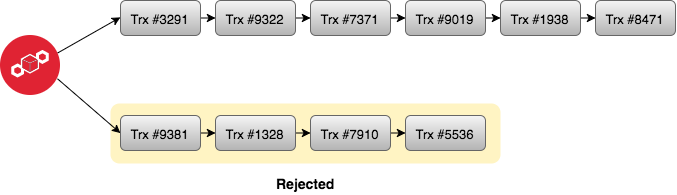
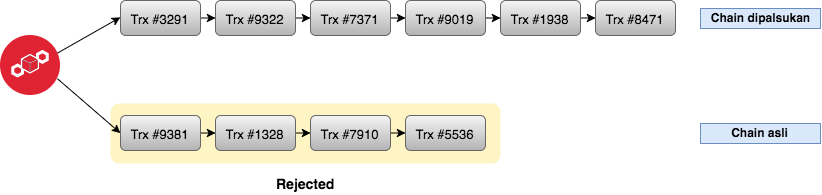
edit post

Changed region(s): [[0.0, 0.0, 1.0, 0.8615], [0.8375, 0.6154, 1.0, 0.7385], [0.3102, 0.8923, 0.4963, 0.9846]]

diff --git a/_posts/2017-11-24-bagaimana-blockchain-bekerja.md b/_posts/2017-11-24-bagaimana-blockchain-bekerja.md
@@ -63,7 +63,9 @@ Jadi ketika ada seseorang ingin "menimpa" suatu transaksi dengan yang palsu, mak
 
 Artinya (sampai saat ini), ini tidak mungkin dilakukan. 
 
-Mekanisme blockchain juga akan mengeliminasi "cabang terpendek" jika ada dua chain dengan referensi yang sama untuk menjamin validitas.
+![pruning](/public/pruning.png)
+
+Mekanisme blockchain juga akan mengeliminasi "cabang terpendek" jika ada dua chain dengan referensi yang sama untuk menjamin validitasnya.
 
 Jadi pertama: seluruh transaksi di blockchain dipastikan valid, kedua: proses penimpaan (tampering) sulit dilakukan. Disinilah keamanan yang ditawarkan blockchain dibanding transaksi tersentralisasi biasa.
 
